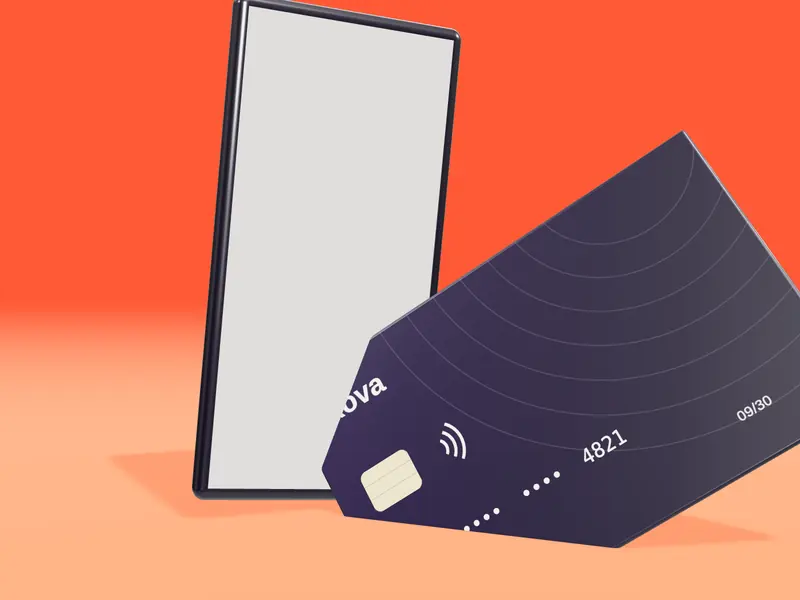
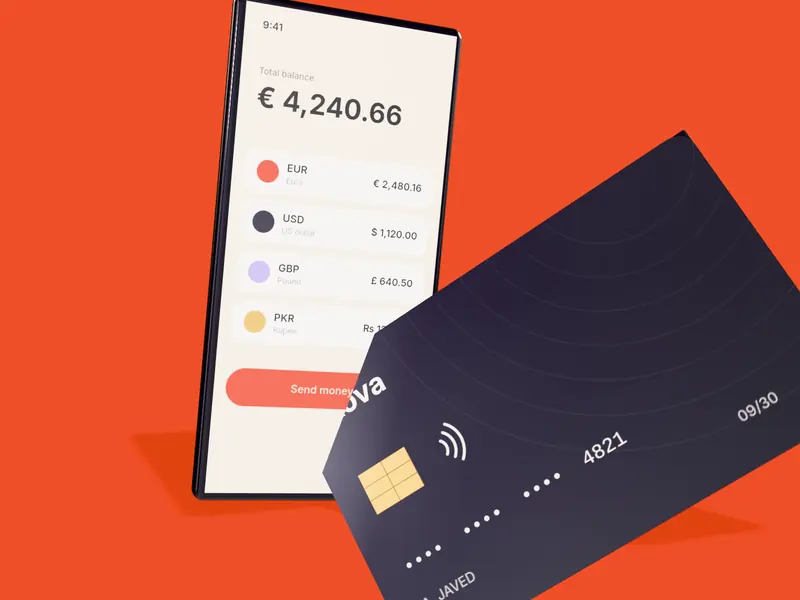
Kova: in-house renders (card/stack/phone), static hero replaces live 3D (7→60 fps), invented stats/testimonial replaced by placeholders, CREDITS

diff --git a/components/Hero.tsx b/components/Hero.tsx
@@ -1,23 +1,15 @@
 "use client";
-import dynamic from "next/dynamic";
-import { useEffect, useRef } from "react";
-import { ScrollTrigger } from "gsap/ScrollTrigger";
-import Lazy3D from "./kit/Lazy3D";
+import Image from "next/image";
+import { useRef } from "react";
 import { Arrow } from "./kit/ui";
-const CardScene = dynamic(() => import("./CardScene"), { ssr: false });
 
 export default function Hero() {
   const root = useRef<HTMLElement>(null);
-  const progress = useRef(0);
-  useEffect(() => {
-    const st = ScrollTrigger.create({ trigger: root.current, start: "top top", end: "bottom top", onUpdate: (s) => { progress.current = s.progress; } });
-    return () => st.kill();
-  }, []);
   return (
     <section ref={root} className="relative overflow-clip bg-cream pt-28 md:pt-32">
       <div className="wrap grid items-center gap-8 lg:grid-cols-12">
         <div className="relative z-10 lg:col-span-6">
-          <p className="kit-soft inline-flex items-center gap-2 rounded-full bg-paper px-3 py-1.5 text-[13px]"><span className="h-2 w-2 rounded-full bg-flare kit-pulse" /> Now in 34 countries</p>
+          <p className="kit-soft inline-flex items-center gap-2 rounded-full bg-paper px-3 py-1.5 text-[13px]"><span className="h-2 w-2 rounded-full bg-flare kit-pulse" /> Concept · prelaunch</p>
           <h1 className="display mt-6 text-[clamp(60px,9vw,150px)]">
             {["Money,", "minus the", "borders."].map((l, i) => <span key={l} className="kit-mask"><span className={`kit-line ${i === 2 ? "text-flare" : ""}`} style={{ animationDelay: `${0.1 + i * 0.09}s` }}>{l}</span></span>)}
           </h1>
@@ -28,17 +20,17 @@ export default function Hero() {
           </div>
         </div>
         <div className="relative h-[52vh] min-h-[380px] lg:col-span-6 lg:h-[78vh]">
-          <div className="absolute inset-0 overflow-hidden rounded-[36px] bg-[#ebe4da]">
-            <Lazy3D poster="/img/kova-hero.webp" priority eager render={({ onReady, running }) => <CardScene progress={progress} running={running} onReady={onReady} />} />
+          <div data-clip className="absolute inset-0 overflow-hidden rounded-[36px] bg-[#e4e1ef]">
+            <Image data-clip-img src="/img/kova-card.webp" alt="Kova cards in flare and plum" fill priority sizes="(min-width:1024px) 50vw, 100vw" className="object-cover" />
           </div>
           <div className="absolute bottom-5 left-5 rounded-[20px] bg-paper/95 p-4 shadow-xl" data-fade data-delay="0.8">
             <p className="text-[12px] text-mute">You send</p><p className="display text-[28px]">€1,000.00</p>
-            <p className="mt-1 text-[12px] text-mute">Ammi gets <b className="text-ink">₨ 3,24,180</b> · in 9 sec</p>
+            <p className="mt-1 text-[12px] text-mute">Ammi gets <b className="text-ink">₨ 3,24,180</b> · arrives in seconds</p>
           </div>
         </div>
       </div>
       <div className="wrap mt-14 grid grid-cols-2 gap-6 border-t border-ink/10 py-8 md:grid-cols-4">
-        {[["2.1M", "people on Kova"], ["40+", "currencies"], ["0.2%", "flat FX margin"], ["9 sec", "median transfer"]].map(([a, b]) => <div key={b}><p className="display text-[clamp(32px,3.4vw,48px)]">{a}</p><p className="text-[14px] text-mute">{b}</p></div>)}
+        {[["Multi", "currency balances"], ["Mid-market", "FX, fee shown upfront"], ["Virtual", "and metal cards"], ["Instant", "sends between Kova users"]].map(([a, b]) => <div key={b}><p className="display text-[clamp(32px,3.4vw,48px)]">{a}</p><p className="text-[14px] text-mute">{b}</p></div>)}
       </div>
     </section>
   );

diff --git a/components/Sections.tsx b/components/Sections.tsx
@@ -94,16 +94,20 @@ export function Stats() {
   return (
     <section className="bg-flare py-[clamp(88px,10vw,150px)] text-ink">
       <div className="wrap grid gap-10 md:grid-cols-3">
-        {[[2.1, "M", "people moving money", 1], [18, "B", "€ sent across borders", 0], [4.9, "★", "average app rating", 1]].map(([v, s, l, d]) => (
-          <div key={l as string} className="border-t border-ink/25 pt-6" data-fade>
-            <p className="display text-[clamp(84px,10vw,160px)]"><span data-count={v as number} data-dec={d as number}>0</span>{s as string}</p>
-            <p className="mt-2 text-[17px]">{l as string}</p>
+        {[["People moving money"], ["Sent across borders"], ["Average app rating"]].map(([l]) => (
+          <div key={l} className="border-t border-ink/25 pt-6" data-fade>
+            <p className="display text-[clamp(84px,10vw,160px)] text-ink/35" aria-label={`${l}: placeholder until launch`}>—</p>
+            <p className="mt-2 text-[17px]">{l}</p>
+            <p className="mono mt-1 text-[12px] uppercase tracking-[.12em] text-ink/60">Placeholder · real figure at launch</p>
           </div>
         ))}
       </div>
       <div className="wrap mt-16 grid items-center gap-8 md:grid-cols-12">
-        <blockquote className="display text-[clamp(30px,3.6vw,56px)] md:col-span-8" data-reveal="words">“I get paid in dollars, pay rent in euros and send home in rupees. Kova is the first app where that feels normal.”</blockquote>
-        <div className="flex items-center gap-4 md:col-span-4 md:justify-end"><span className="grid h-14 w-14 place-items-center rounded-full bg-ink text-cream display text-[22px]">S</span><div><p className="font-semibold">Sana Q.</p><p className="text-[14px] text-ink/70">Designer, Lisbon (fictional)</p></div></div>
+        <div className="md:col-span-7">
+          <p className="display text-[clamp(30px,3.6vw,56px)]" data-reveal="words">Paid in one currency, living in another. One app for all of it.</p>
+          <p className="mt-6 max-w-[520px] text-[17px] text-ink/75">Customer stories go here once Kova has customers. This is a concept; we don&apos;t publish quotes from people who don&apos;t exist.</p>
+        </div>
+        <div data-clip className="relative aspect-[4/3] overflow-hidden rounded-[32px] md:col-span-5"><Image data-clip-img src="/img/kova-phone.webp" alt="Kova app on a phone beside a Kova card" fill sizes="(min-width:768px) 40vw, 100vw" className="object-cover object-[50%_30%]" /></div>
       </div>
     </section>
   );

diff --git a/components/Morph.tsx b/components/Morph.tsx
@@ -88,7 +88,7 @@ export default function Morph() {
               <div className="m-phone absolute inset-y-0 left-[380px] w-[340px] opacity-0"><Phone /></div>
             </div>
             <div className="pointer-events-none absolute inset-y-0 right-0 hidden w-[340px] flex-col justify-center gap-4 lg:flex">
-              {[["Instant", "Sends land in seconds"], ["0.2%", "Above mid-market, flat"], ["40+", "Currencies, one card"]].map(([a, b]) => <div key={a} className="m-side ml-auto w-[260px] rounded-[22px] bg-cream p-5 text-ink opacity-0"><p className="display text-[36px]">{a}</p><p className="text-[14px] text-mute">{b}</p></div>)}
+              {[["Instant", "Sends between Kova users"], ["Upfront", "Fee shown before you send"], ["One card", "Spends in any balance"]].map(([a, b]) => <div key={a} className="m-side ml-auto w-[260px] rounded-[22px] bg-cream p-5 text-ink opacity-0"><p className="display text-[36px]">{a}</p><p className="text-[14px] text-mute">{b}</p></div>)}
             </div>
           </div>
           </div>

diff --git a/CREDITS.md b/CREDITS.md
@@ -1,5 +1,5 @@
 # Credits — Kova (concept by Anorix). Inspired by jeton.com (Awwwards SOTD Jan 27 2025); no code, copy, logos or images taken.
 Fonts (OFL 1.1, self-hosted): Bricolage Grotesque, DM Sans.
-Images: /public/img/*.webp rendered in-house with three.js; card textures drawn in code. Hero 3D is real-time three.js.
+Images: /public/img/kova-card, kova-stack, kova-phone are offline accumulated (depth-of-field) renders made in-house with three.js (render/scenes/kova2.js): rounded-box cards with clearcoat, chip and type drawn in code; lit by Poly Haven studio_small_09 HDRI (CC0, polyhaven.com/a/studio_small_09). The hero uses the same render (no live 3D).
 Libraries: Next.js, React, Tailwind CSS, three.js, @react-three/fiber, Lenis, GSAP (ScrollTrigger, SplitText) — MIT / GSAP standard no-charge license.
-All people, numbers and quotes are fictional. Kova is not a real financial institution.
+No metrics, users or testimonials are claimed: stats and customer stories are marked placeholders until launch. Kova is not a real financial institution.
